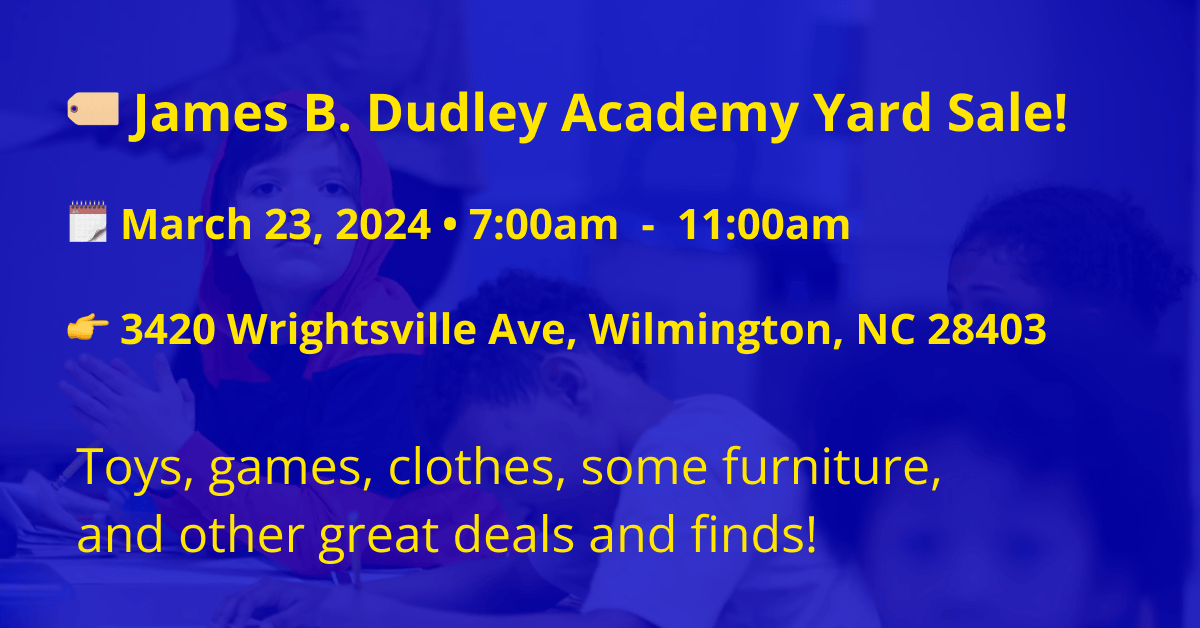
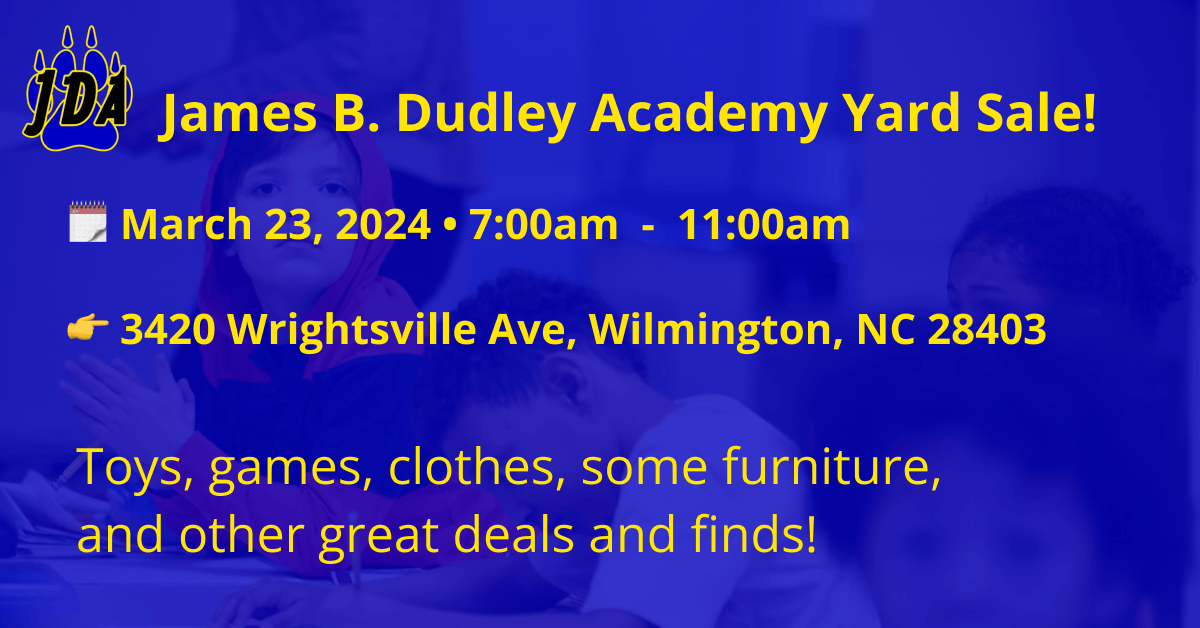
improve photos and qa part

Changed region(s): [[0.0, 0.0303, 0.925, 0.242]]

diff --git a/public/index.html b/public/index.html
@@ -37,7 +37,7 @@
 </head>
 <body>
     <div class="hero">
-        <img src="./favicon.png" alt="JDA Logo" width="150" />
+        <img src="/favicon.png" alt="JDA Logo" width="150" />
         <h1>James B. Dudley Academy Yard Sale!</h1>
         <h2>March 23, 2024 <br> 7:00am - 11:00am</h2>
         <a href="https://maps.app.goo.gl/6vd4BmG3zK1nyfQP8" target="_blank" title="Click to view address">
@@ -51,8 +51,14 @@
         </div>
 
         <div>
-            <h4>Can I drop off items?</h4>
-            <p>Yes! We will start collecting items at the following times:</p>
+            <h4>What can I do to help?</h4>
+            <ul>
+                <li>Visit and support our yard sale</li>
+                <li>Share this event on social media</li>
+                <li>Invite your friends and family</li>
+                <li>Drop off items for the yard sale</li>
+            </ul>
+            <p>Collection drop-off times:</p>
             <ul>
                 <li>March 18 - March 21 at 9:30am-11:30am, 1:00pm - 2:30pm, 3:30pm-5:00pm</li>
                 <li>March 22 at 11:30am is final cut off.</li>
@@ -61,7 +67,7 @@
 
         <div>
             <h4>Why are you having a yard sale?</h4>
-            <p>We are expanding access to quality education for our school and students.</p>
+            <p>This fundraiser to support our teachers and our new enrichment building.</p>
         </div>
 
         <div>
